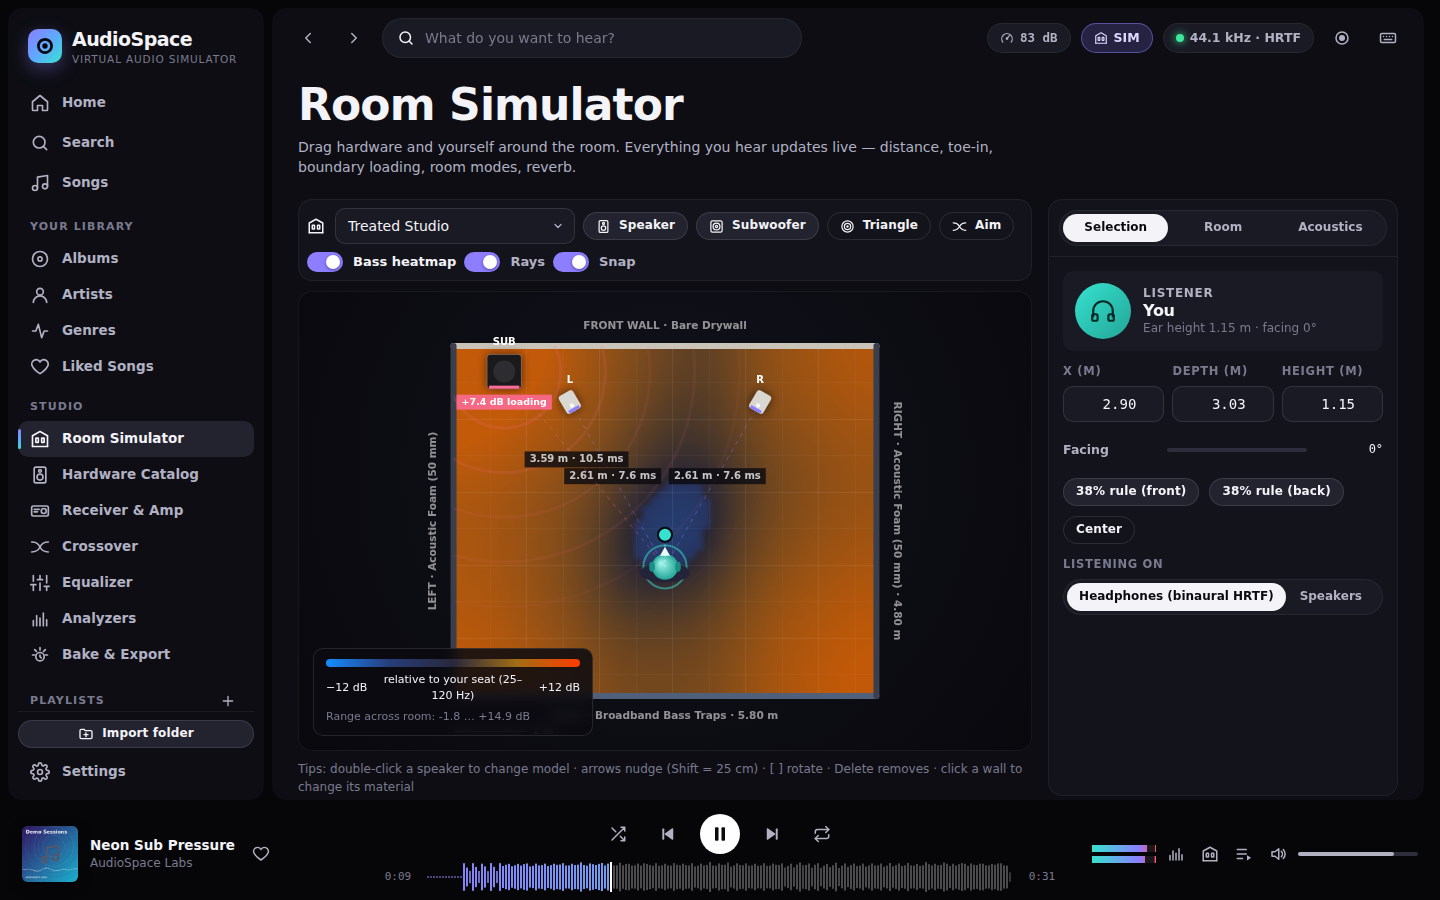
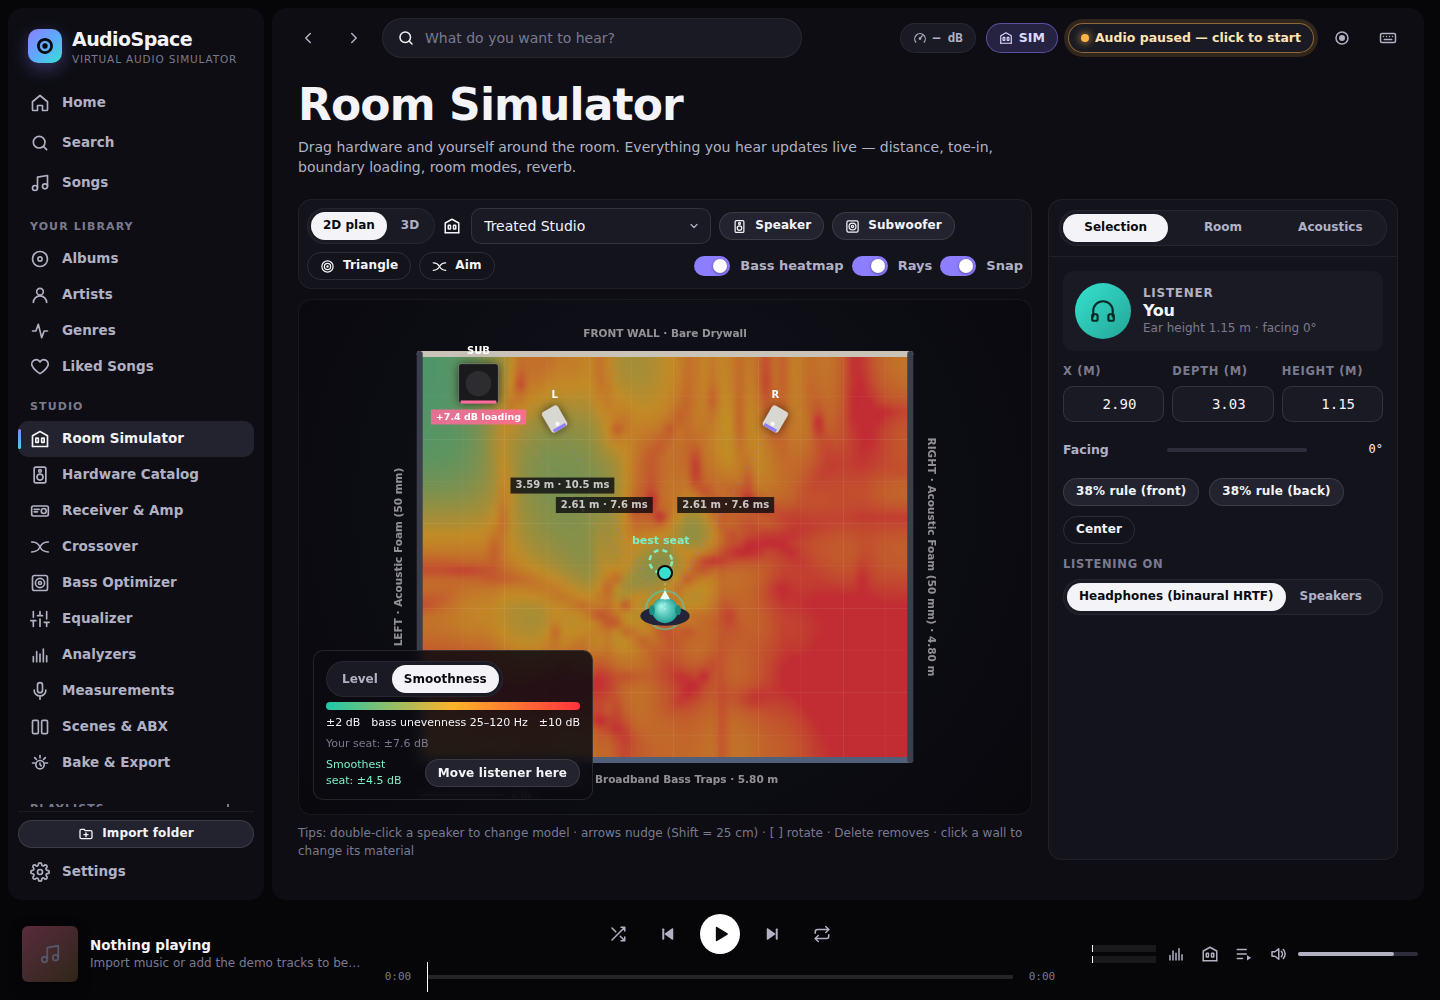
Add bass smoothness map and best-seat suggestion
The modal heat map now also returns, for every point, the spread
(std-dev) of the 25-120 Hz response. The room view can show Level or
Smoothness (both in 2D and 3D, via a shared colour module), and marks
the smoothest seat within the listening area - in front of the
speakers, away from the walls, preferring the centre line - with a
one-click Move listener here. Frequency resolution of the map is raised
to 12 points per octave so the spread is meaningful.

Claude-Session: https://claude.ai/code/session_01KkyuQxha8H6wD4rc5cZs3w

diff --git a/src/ui/views/room.js b/src/ui/views/room.js
@@ -14,6 +14,7 @@ import {
   ROOM_PRESETS, roomFromPreset, defaultLayout, rt60Bands, schroederFrequency, criticalDistance, volume, meanAlpha, roomModes, boundaryGain, modalCrossover,
 } from '../../acoustics/room.js';
 import { makeSpeaker, makeSub } from '../../core/settings.js';
+import { smoothestSeat } from '../../acoustics/subopt.js';
 import { aimYaw } from '../../audio/plan.js';
 import { Response, cascadeMagnitudeDb } from '../../dsp/biquad.js';
 import { octaveGrid, clamp } from '../../util/math.js';
@@ -155,7 +156,7 @@ export function roomView(app, params, query, disposer) {
     }
     const plan = app.engine.plan;
     if (!plan) return;
-    const freqs = [...octaveGrid(25, 120, 6)];
+    const freqs = [...octaveGrid(25, 120, 12)];
     const sources = [];
     for (const src of plan.sources) {
       if (!src.active) continue;
@@ -175,21 +176,31 @@ export function roomView(app, params, query, disposer) {
     const ci = clamp(Math.floor((s.listener.x / s.room.width) * cols), 0, cols - 1);
     const ri = clamp(Math.floor((s.listener.z / s.room.depth) * rows), 0, rows - 1);
     const ref = res.data[ri * cols + ci];
+    const seatStd = res.std[ri * cols + ci];
     let min = Infinity;
     let max = -Infinity;
     for (const v of res.data) {
       min = Math.min(min, v);
       max = Math.max(max, v);
     }
-    editor.setHeatmap({ ...res, ref });
+    const best = smoothestSeat(res, s);
+    const mode = s.ui.heatmapMode === 'smooth' ? 'smooth' : 'level';
+    editor.setHeatmap({ ...res, ref, mode, best });
     clear(heatInfo);
+    const modeSeg = segmented([{ value: 'level', label: 'Level' }, { value: 'smooth', label: 'Smoothness' }], mode, (v) => store.set('ui.heatmapMode', v), { label: 'Heat map' });
     heatInfo.append(
-      h('div.heat-bar'),
-      h('div.split', h('span', '−12 dB'), h('span.grow', { style: { textAlign: 'center' } }, 'relative to your seat (25–120 Hz)'), h('span', '+12 dB')),
-      h('div.dim', `Range across room: ${(min - ref).toFixed(1)} … +${(max - ref).toFixed(1)} dB`),
+      modeSeg,
+      h('div.heat-bar', { class: mode === 'smooth' ? 'smooth' : '' }),
+      mode === 'smooth'
+        ? h('div.split', h('span', '±2 dB'), h('span.grow', { style: { textAlign: 'center' } }, 'bass unevenness 25–120 Hz'), h('span', '±10 dB'))
+        : h('div.split', h('span', '−12 dB'), h('span.grow', { style: { textAlign: 'center' } }, 'relative to your seat (25–120 Hz)'), h('span', '+12 dB')),
+      h('div.dim', mode === 'smooth' ? `Your seat: ±${seatStd.toFixed(1)} dB` : `Range across room: ${(min - ref).toFixed(1)} … +${(max - ref).toFixed(1)} dB`),
+      best && best.std < seatStd - 0.3
+        ? h('div.split', h('span', { style: { color: '#7cf0c8' } }, `Smoothest seat: ±${best.std.toFixed(1)} dB`), h('div.grow'), h('button.btn.small', { onClick: () => store.patch('listener', { x: best.x, z: best.z }) }, 'Move listener here'))
+        : h('div.dim', 'Your seat is already among the smoothest spots.'),
     );
   }, 200);
-  disposer.add(store.subscribe(['ui.heatmap', 'room', 'speakers', 'subs', 'listener', 'crossover', 'eq'], computeHeat));
+  disposer.add(store.subscribe(['ui.heatmap', 'ui.heatmapMode', 'room', 'speakers', 'subs', 'listener', 'crossover', 'eq'], computeHeat));
   computeHeat();
 
   // ------------------------------------------------ inspector

diff --git a/src/viz/roomCanvas.js b/src/viz/roomCanvas.js
@@ -7,19 +7,10 @@ import { MATERIALS } from '../acoustics/materials.js';
 import { boundaryGain, roomSpeedOfSound } from '../acoustics/room.js';
 import { aimYaw, yawVector } from '../audio/plan.js';
 import { clamp } from '../util/math.js';
+import { heatCell } from './heatColors.js';
 
 const MARGIN = 54;
 const HEAD_R = 0.14;
-
-function divergingColor(t) {
-  // t in [-1, 1]: blue (weak) → dark → orange/red (strong)
-  const a = clamp(t, -1, 1);
-  if (a < 0) {
-    const k = -a;
-    return [20 + 20 * (1 - k), 60 + 80 * k, 120 + 135 * k];
-  }
-  return [40 + 215 * a, 40 + 120 * a * (1 - a * 0.4), 60 * (1 - a)];
-}
 
 export class RoomEditor extends Emitter {
   constructor(canvas, app) {
@@ -60,10 +51,8 @@ export class RoomEditor extends Emitter {
       c.height = hm.rows;
       const g = c.getContext('2d');
       const img = g.createImageData(hm.cols, hm.rows);
-      const ref = hm.ref;
       for (let i = 0; i < hm.data.length; i++) {
-        const t = (hm.data[i] - ref) / 12;
-        const [r, gg, b] = divergingColor(t);
+        const [r, gg, b] = heatCell(hm, i);
         img.data[i * 4] = r;
         img.data[i * 4 + 1] = gg;
         img.data[i * 4 + 2] = b;
@@ -306,6 +295,24 @@ export class RoomEditor extends Emitter {
       ctx.imageSmoothingQuality = 'high';
       ctx.drawImage(this.heatImg, x0, y0, x1 - x0, y1 - y0);
       ctx.restore();
+      const best = this.heatmap?.best;
+      if (best) {
+        // Suggested seat: pulsing ring.
+        const [bx, by] = this.px(best.x, best.z);
+        const pulse = 1 + 0.15 * Math.sin(t / 300);
+        ctx.beginPath();
+        ctx.arc(bx, by, 13 * pulse, 0, Math.PI * 2);
+        ctx.strokeStyle = '#7cf0c8';
+        ctx.lineWidth = 2.5;
+        ctx.setLineDash([5, 4]);
+        ctx.stroke();
+        ctx.setLineDash([]);
+        ctx.font = '700 11px Inter, system-ui, sans-serif';
+        ctx.fillStyle = '#7cf0c8';
+        ctx.textAlign = 'center';
+        ctx.fillText('best seat', bx, by - 20);
+        this.dirty = true; // keep the ring animating
+      }
     }
     // Grid
     ctx.lineWidth = 1;

diff --git a/src/viz/room3d.js b/src/viz/room3d.js
@@ -10,6 +10,7 @@ import { getHardware } from '../hardware/index.js';
 import { MATERIALS } from '../acoustics/materials.js';
 import { aimYaw, yawVector } from '../audio/plan.js';
 import { clamp } from '../util/math.js';
+import { heatCell } from './heatColors.js';
 
 const FOV = (50 * Math.PI) / 180;
 const NEAR = 0.05;
@@ -565,11 +566,25 @@ export class Room3D extends Emitter {
     const dz = room.depth / hm.rows;
     for (let r = 0; r < hm.rows; r++) {
       for (let c = 0; c < hm.cols; c++) {
-        const v = clamp((hm.data[r * hm.cols + c] - hm.ref) / 12, -1, 1);
-        const col = v >= 0 ? `rgba(${Math.round(60 + 195 * v)},${Math.round(60 + 90 * v)},60,0.55)` : `rgba(30,${Math.round(70 - 30 * v)},${Math.round(120 - 110 * v)},0.55)`;
+        const [cr, cg, cb] = heatCell(hm, r * hm.cols + c);
         const x = c * dx;
         const z = r * dz;
-        this._polygon(ctx, [v3(x, 0.002, z), v3(x + dx, 0.002, z), v3(x + dx, 0.002, z + dz), v3(x, 0.002, z + dz)], col, null);
+        this._polygon(ctx, [v3(x, 0.002, z), v3(x + dx, 0.002, z), v3(x + dx, 0.002, z + dz), v3(x, 0.002, z + dz)], `rgba(${Math.round(cr)},${Math.round(cg)},${Math.round(cb)},0.55)`, null);
+      }
+    }
+    if (hm.best) {
+      const ring = [];
+      for (let k = 0; k < 24; k++) {
+        const a = (k / 24) * Math.PI * 2;
+        ring.push(v3(hm.best.x + Math.cos(a) * 0.22, 0.004, hm.best.z + Math.sin(a) * 0.22));
+      }
+      this._polygon(ctx, ring, 'rgba(124,240,200,0.25)', '#7cf0c8', 2.5);
+      const lp = this.project(v3(hm.best.x, 0.35, hm.best.z));
+      if (lp) {
+        ctx.font = '700 11px Inter, system-ui, sans-serif';
+        ctx.fillStyle = '#7cf0c8';
+        ctx.textAlign = 'center';
+        ctx.fillText('best seat', lp[0], lp[1]);
       }
     }
   }

diff --git a/src/acoustics/modes.js b/src/acoustics/modes.js
@@ -270,11 +270,14 @@ export function bassHeatmap(model, sources, opts = {}) {
   for (let k = 0; k <= maxNx; k++) for (let c = 0; c < cols; c++) tx[k * cols + c] = Math.cos((k * Math.PI * ((c + 0.5) / cols) * Lx) / Lx);
   for (let k = 0; k <= maxNz; k++) for (let r = 0; r < rows; r++) tz[k * rows + r] = Math.cos((k * Math.PI * ((r + 0.5) / rows) * Lz) / Lz);
   const data = new Float32Array(cols * rows);
+  const std = new Float32Array(cols * rows); // unevenness: std-dev of the dB response over freqs
   const psi = new Float64Array(n);
+  const db = new Float64Array(nf);
   for (let r = 0; r < rows; r++) {
     for (let c = 0; c < cols; c++) {
       for (let i = 0; i < n; i++) psi[i] = tx[nx[i] * cols + c] * cosY[i] * tz[nz[i] * rows + r];
       let pw = 0;
+      let mean = 0;
       for (let fi = 0; fi < nf; fi++) {
         let sr = 0;
         let si = 0;
@@ -283,10 +286,17 @@ export function bassHeatmap(model, sources, opts = {}) {
           sr += Cr[base + i] * psi[i];
           si += Ci[base + i] * psi[i];
         }
-        pw += K * K * (sr * sr + si * si);
+        const p = K * K * (sr * sr + si * si);
+        pw += p;
+        db[fi] = 10 * Math.log10(p + 1e-20);
+        mean += db[fi];
       }
+      mean /= nf;
+      let v = 0;
+      for (let fi = 0; fi < nf; fi++) v += (db[fi] - mean) ** 2;
       data[r * cols + c] = 10 * Math.log10(pw / nf + 1e-20);
+      std[r * cols + c] = Math.sqrt(v / nf);
     }
   }
-  return { cols, rows, data, freqs: Array.from(freqs) };
+  return { cols, rows, data, std, freqs: Array.from(freqs) };
 }

diff --git a/src/acoustics/subopt.js b/src/acoustics/subopt.js
@@ -301,3 +301,28 @@ export function optimizeSubs(o) {
     refTrim,
   };
 }
+
+/**
+ * The smoothest bass spot of a heat map (with a per-point `std`) inside the
+ * listening area — in front of the speakers and away from the walls —
+ * gently preferring the centre line and the current seat.
+ * @param {{cols:number, rows:number, std:ArrayLike<number>}} hm
+ * @param {{room, speakers, listener}} s
+ */
+export function smoothestSeat(hm, s) {
+  const { width: W, depth: D } = s.room;
+  const zMin = Math.max(0.8, ...s.speakers.map((x) => x.z + 1.0));
+  let best = null;
+  for (let r = 0; r < hm.rows; r++) {
+    const z = ((r + 0.5) / hm.rows) * D;
+    if (z < zMin || z > D - 0.5) continue;
+    for (let c = 0; c < hm.cols; c++) {
+      const x = ((c + 0.5) / hm.cols) * W;
+      if (x < 0.6 || x > W - 0.6) continue;
+      const std = hm.std[r * hm.cols + c];
+      const score = std + 0.4 * Math.abs(x - W / 2) + 0.15 * Math.abs(z - s.listener.z);
+      if (!best || score < best.score) best = { x: Math.round(x * 100) / 100, z: Math.round(z * 100) / 100, std, score };
+    }
+  }
+  return best;
+}

diff --git a/src/viz/heatColors.js b/src/viz/heatColors.js
@@ -1,0 +1,29 @@
+// Colour scales for the bass maps shared by the 2D and 3D room views.
+
+import { clamp } from '../util/math.js';
+
+/** Level relative to the seat: blue (weaker) → dark → orange/red (stronger), ±12 dB. */
+export function levelColor(deltaDb) {
+  const a = clamp(deltaDb / 12, -1, 1);
+  if (a < 0) {
+    const k = -a;
+    return [20 + 20 * (1 - k), 60 + 80 * k, 120 + 135 * k];
+  }
+  return [40 + 215 * a, 40 + 120 * a * (1 - a * 0.4), 60 * (1 - a)];
+}
+
+/** Unevenness (std-dev in dB): teal (smooth, ≤2 dB) → amber → red (≥10 dB). */
+export function smoothColor(stdDb) {
+  const t = clamp((stdDb - 2) / 8, 0, 1);
+  if (t < 0.5) {
+    const k = t / 0.5;
+    return [30 + 225 * k, 200 - 20 * k, 170 - 130 * k];
+  }
+  const k = (t - 0.5) / 0.5;
+  return [255, 180 - 130 * k, 40 + 20 * k];
+}
+
+/** RGB for heat-map cell i given the map and its display mode. */
+export function heatCell(hm, i) {
+  return hm.mode === 'smooth' ? smoothColor(hm.std[i]) : levelColor(hm.data[i] - hm.ref);
+}

diff --git a/src/core/settings.js b/src/core/settings.js
@@ -70,7 +70,7 @@ export function defaultState() {
     haptics: { enabled: false, intensity: 1, threshold: 0.5, gamepad: true, visual: true },
     viz: { spectrumMode: 'bars', spectrogramRange: 90, vuReference: -18 },
     scenes: [],
-    ui: { queueOpen: true, reduceMotion: false, heatmap: false, heatmapFreq: 'bass', showRays: true, snap: true, room3d: false },
+    ui: { queueOpen: true, reduceMotion: false, heatmap: false, heatmapMode: 'level', showRays: true, snap: true, room3d: false },
   };
 }
 

diff --git a/src/acoustics/acoustics.worker.js b/src/acoustics/acoustics.worker.js
@@ -18,7 +18,7 @@ self.onmessage = (e) => {
       self.postMessage({ id, ok: true, result: optimizeSubs(job) });
     } else if (type === 'heatmap') {
       const res = computeHeatmap(job);
-      self.postMessage({ id, ok: true, result: res }, [res.data.buffer]);
+      self.postMessage({ id, ok: true, result: res }, [res.data.buffer, res.std.buffer]);
     } else {
       throw new Error(`Unknown job type ${type}`);
     }

diff --git a/css/studio.css b/css/studio.css
@@ -142,6 +142,14 @@
   background: linear-gradient(90deg, rgb(20, 140, 255), rgb(40, 60, 120), rgb(40, 40, 60), rgb(160, 110, 20), rgb(255, 60, 0));
 }
 
+.heat-bar.smooth {
+  background: linear-gradient(90deg, rgb(30, 200, 170), rgb(255, 180, 40), rgb(255, 50, 60));
+}
+
+.heat-legend .segmented {
+  justify-self: start;
+}
+
 .inspector {
   background: var(--bg-2);
   border: 1px solid var(--line);

diff --git a/README.md b/README.md
@@ -4,7 +4,7 @@ AudioSpace is a browser-based music player wrapped around a physically-modelled 
 
 Everything runs locally with the Web Audio API. Your music never leaves your device. No build step, no runtime dependencies.
 
-![Room simulator with bass heat map](docs/screenshots/room.png)
+![Room simulator with the bass smoothness map and best-seat suggestion](docs/screenshots/room.png)
 
 | | |
 |---|---|
@@ -52,7 +52,7 @@ AudioSpace must be served from `http://localhost` or HTTPS (secure context for t
 
   ![3D room view with bass heat map and first reflections](docs/screenshots/room3d.png)
 - **PannerNode** HRTF (or equal-power for speaker listening) with the inverse distance model (**inverse-square law**: −6 dB per doubling), propagation delay, off-axis high-frequency loss and air absorption.
-- **Low-frequency modal model**: a modal sum of the rectangular room's eigenmodes with wall-dependent damping, averaged over a head-sized region and fitted to a compact minimum-phase filter bank per source. It reproduces **corner loading** (+6…+9 dB), SBIR cancellations and standing waves; a **bass heat map** shows seat-to-seat variation. A simpler boundary-gain shelf model is available too.
+- **Low-frequency modal model**: a modal sum of the rectangular room's eigenmodes with wall-dependent damping, averaged over a head-sized region and fitted to a compact minimum-phase filter bank per source. It reproduces **corner loading** (+6…+9 dB), SBIR cancellations and standing waves; a **bass heat map** shows seat-to-seat level variation, and a **smoothness map** (spread of the 25–120 Hz response at every point) marks the smoothest seat in the listening area with one-click "Move listener here". A simpler boundary-gain shelf model is available too.
 - **Convolution reverb** from a synthesised **true-stereo impulse response**: image-source early reflections (order 1–5) with per-octave wall reflection coefficients, plus a diffuse tail per octave band decaying at the **Eyring RT60**, energy-calibrated to the statistical reverberant ratio 16π/R. Presets: Small Bedroom, Treated Studio, Vaulted-Ceiling Living Room, Home Theater, Concert Hall, Cathedral, Bathroom, Garage, Club, Office, Anechoic; materials include Glass, Bare Drywall, Heavy Curtains, Acoustic Foam, bass traps and more. IRs are generated in a Web Worker and hot-swapped with a crossfade.
 
 ### Phase 5 — Visualisation, haptics and export
